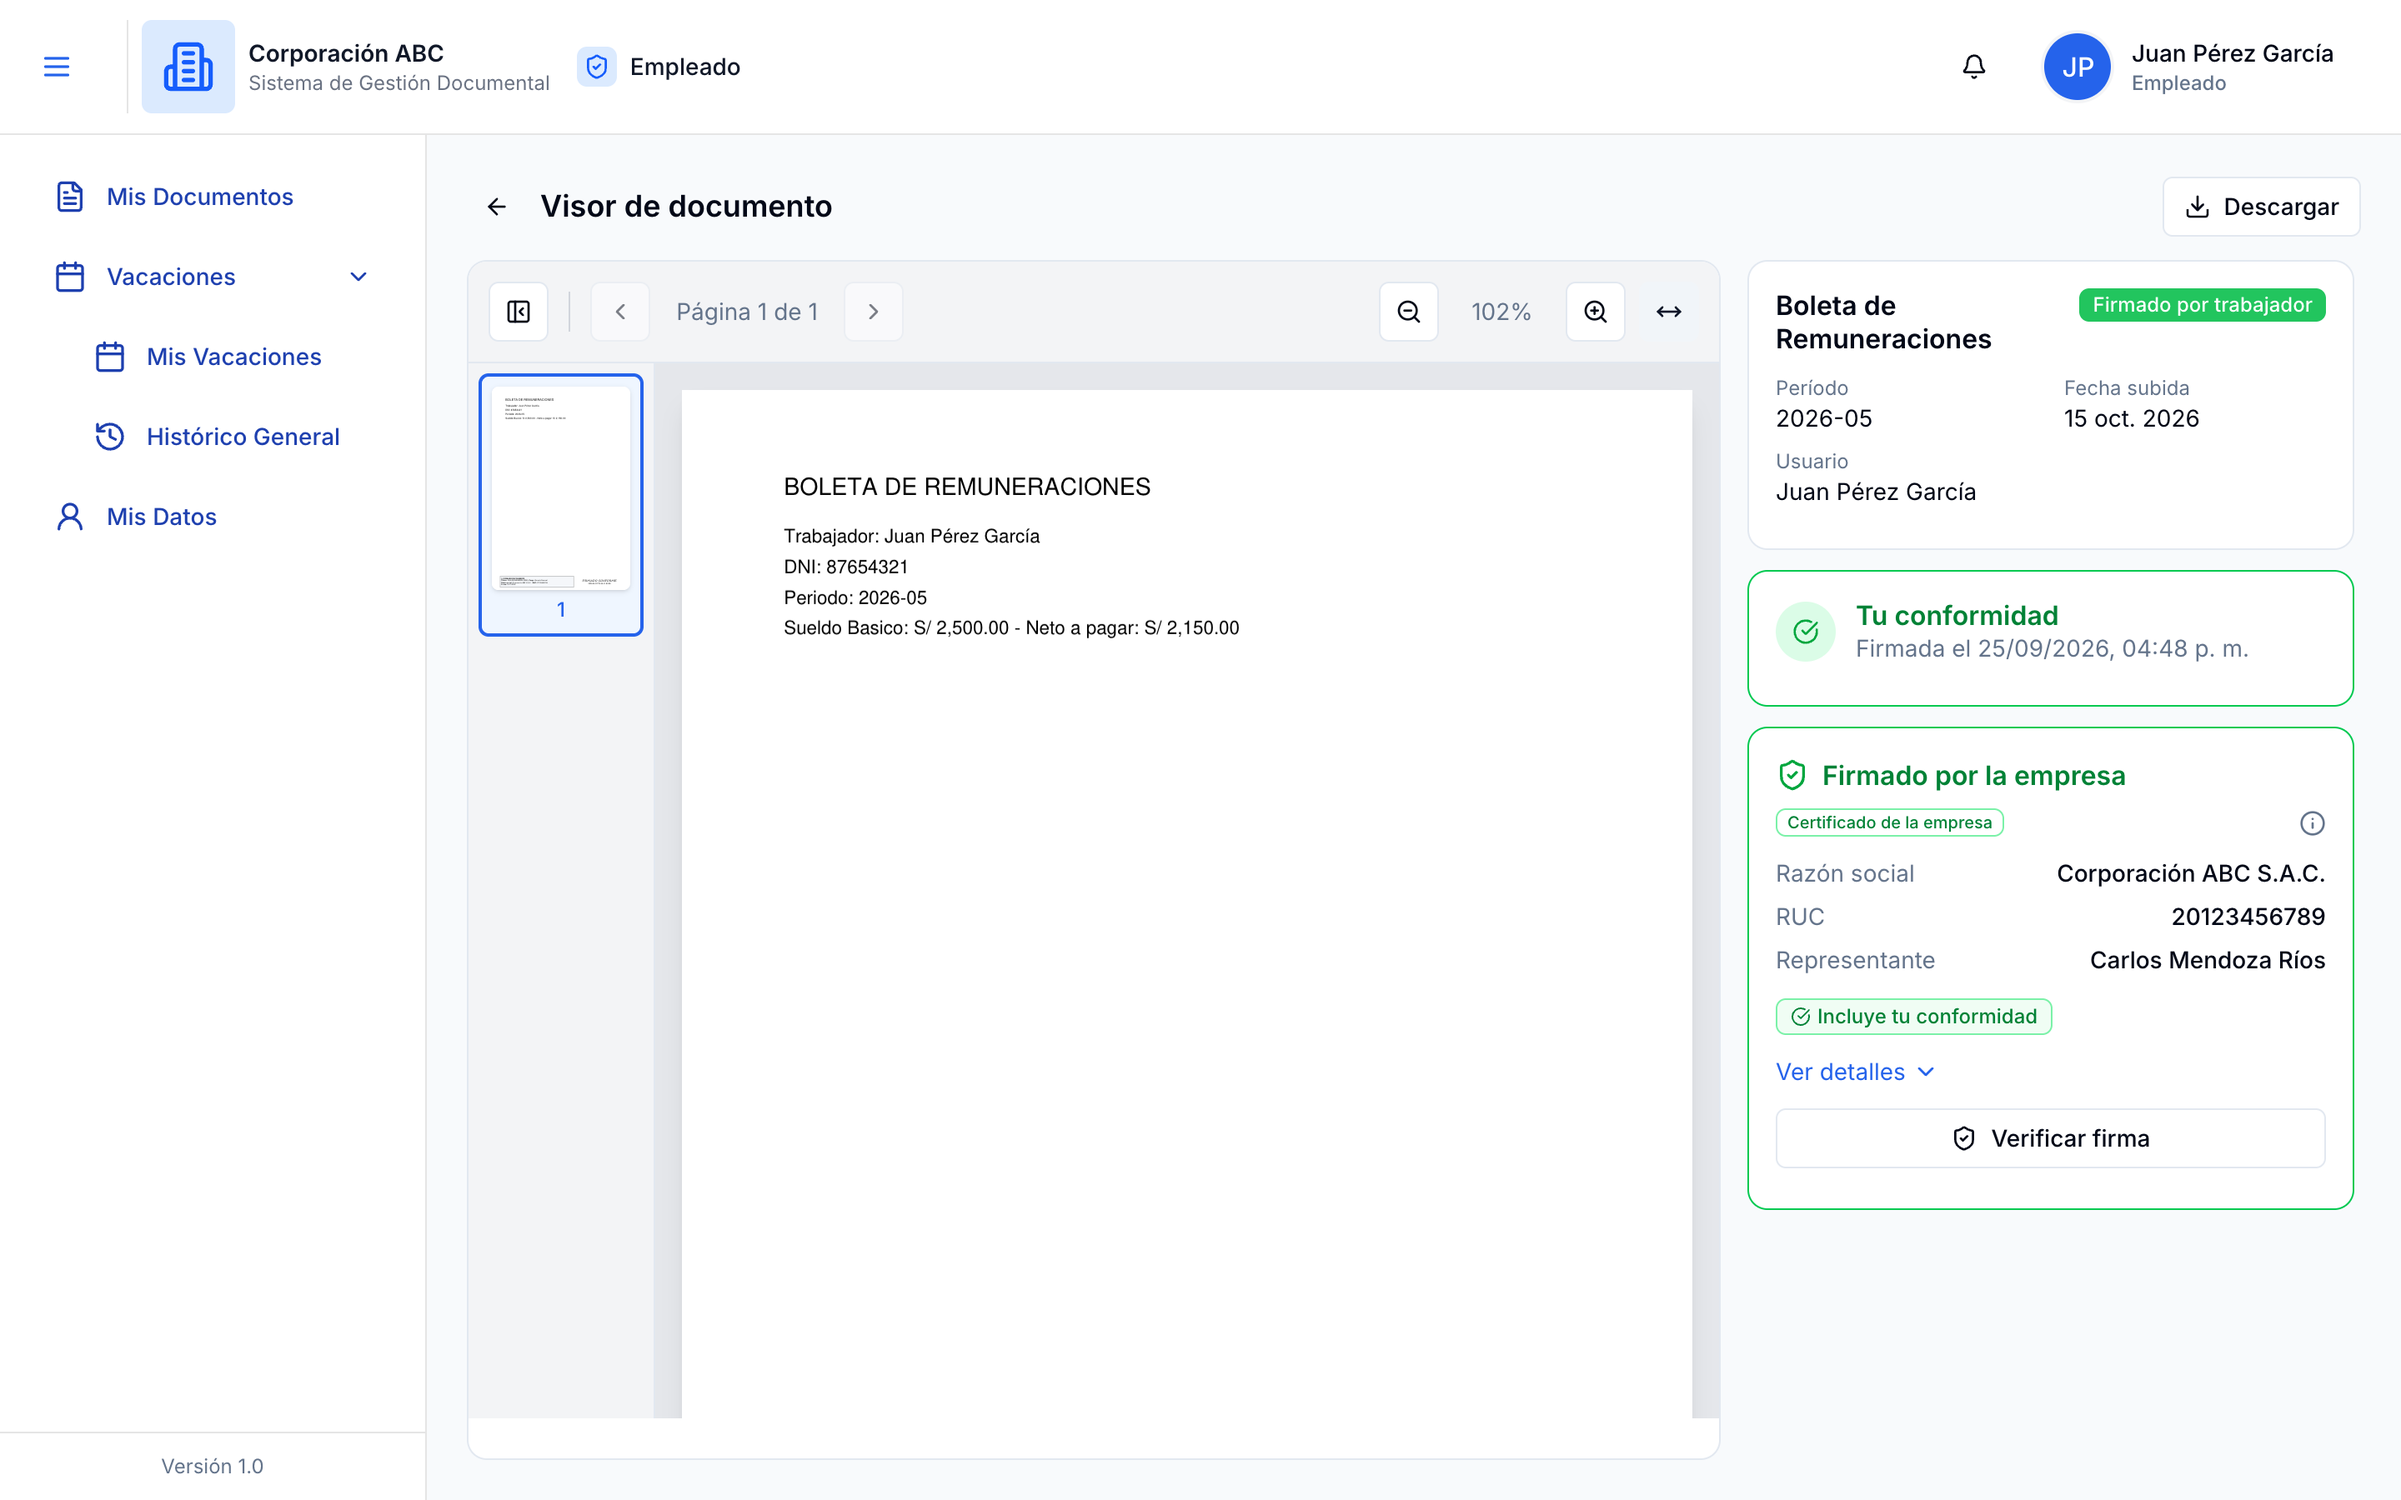
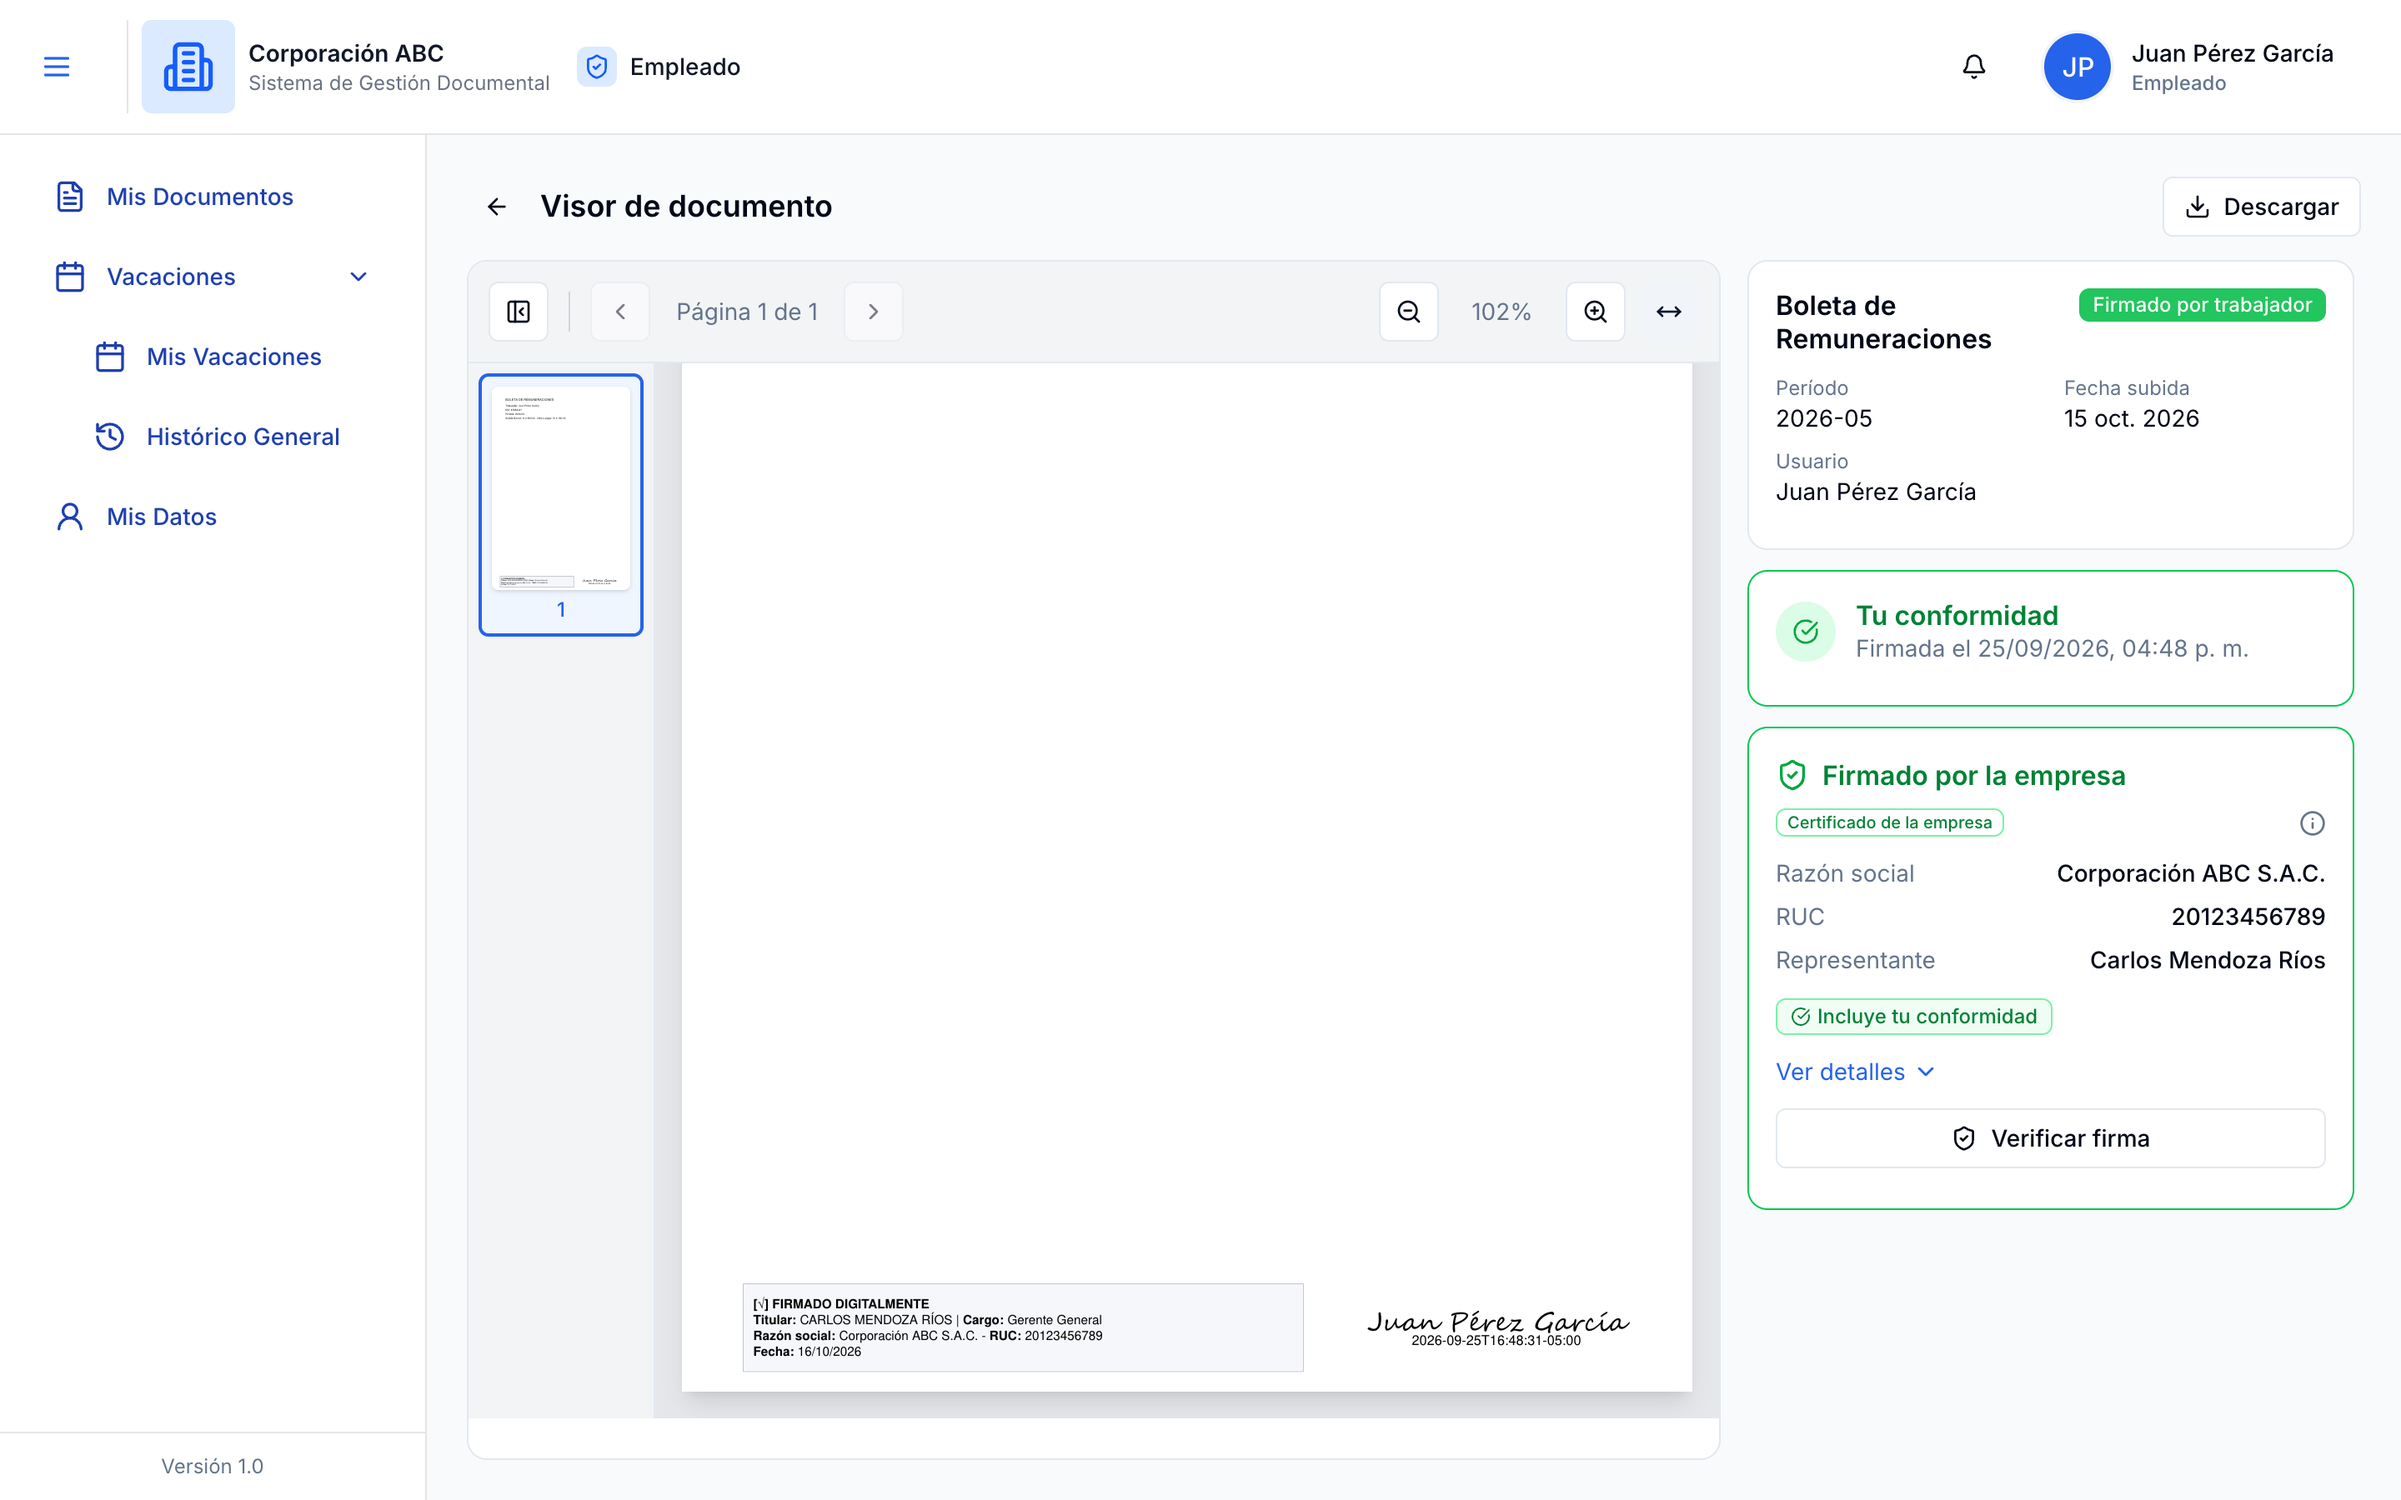
docs(manual): el visor enseña las dos firmas al pie de la boleta
Las capturas 03 (boleta firmada) y 36 (pendiente) bajan hasta el pie del
PDF: sello de la empresa y conformidad del trabajador en la firmada, solo
el sello en la pendiente.

Changed region(s): [[0.2812, 0.84, 0.7188, 0.9644], [0.2812, 0.2178, 0.7188, 0.28], [0.3125, 0.3111, 0.5, 0.4356]]

diff --git a/docs/screenshots/capture.js b/docs/screenshots/capture.js
@@ -89,7 +89,13 @@ const CAPTURAS = [
     // Texto EXACTO, no pulsarTexto: el banner "Ver Documentos Pendientes"
     // contiene "Ver" como substring y esta antes en el DOM, asi que el match
     // por substring pulsaba el banner y nunca abria el visor.
-    accion: (page) => pulsarTextoExacto(page, 'Ver'),
+    // Se baja al pie del PDF: ahí están las dos firmas (sello de la empresa
+    // a la izquierda, conformidad del trabajador a la derecha).
+    viewport: true,
+    accion: async (page) => {
+      await pulsarTextoExacto(page, 'Ver');
+      await bajarPdfAlPie(page);
+    },
   },
   /*
    * Visor rediseñado, con una boleta PENDIENTE: panel derecho con la tarjeta
@@ -107,6 +113,8 @@ const CAPTURAS = [
         () => document.body.innerText.includes('Tu conformidad'),
         { timeout: 15000 },
       );
+      // Pie del PDF: solo el sello de la empresa, la conformidad aún falta.
+      await bajarPdfAlPie(page);
     },
   },
   /*
@@ -355,6 +363,24 @@ async function pulsarTextoExacto(page, texto, selector = 'button, a, [role="butt
  * <button role="checkbox">, no como <input>, asi que no valen ni page.check ni
  * un selector de input.
  */
+/**
+ * Desplaza el visor hasta el final del PDF, donde se dibujan el sello de la
+ * firma digital de la empresa y la conformidad del trabajador. El visor solo
+ * enseña la parte de arriba de la página, así que sin esto las firmas
+ * quedaban fuera de la captura.
+ */
+async function bajarPdfAlPie(page) {
+  await page.waitForSelector('canvas', { timeout: 20000 });
+  await new Promise((r) => setTimeout(r, 1500));
+  // El área de la página (no la columna de miniaturas, que va antes en el
+  // DOM y también tiene canvas): div.overflow-y-auto.bg-gray-200 de PDFViewer.
+  await page.evaluate(() => {
+    const el = document.querySelector('div.overflow-y-auto.bg-gray-200');
+    if (el) el.scrollTop = el.scrollHeight;
+  });
+  await new Promise((r) => setTimeout(r, 1500));
+}
+
 async function marcarCasilla(page) {
   const marcada = await page.evaluate(() => {
     const casilla = document.querySelector('[role="dialog"] [role="checkbox"]');

diff --git a/docs/USER-MANUAL.md b/docs/USER-MANUAL.md
@@ -1179,6 +1179,10 @@ El dashboard del empleado presenta un resumen de sus documentos pendientes y fir
 
 ![Document Viewer](images/03_document_viewer.png)
 
+*Boleta con las dos firmas: al pie, a la izquierda, el sello de la firma
+digital de la empresa; a la derecha, la conformidad del trabajador con su
+nombre y la fecha.*
+
 **Descripción:**
 El visor permite revisar el documento completo antes de firmarlo. La pantalla
 tiene dos zonas: a la izquierda, el PDF a toda la altura disponible; a la
@@ -1202,7 +1206,9 @@ derecha, un panel con el estado del documento y de sus firmas.
 ![Visor con firma pendiente](images/36_employee_viewer_pending.png)
 
 Mientras la conformidad está pendiente, el panel muestra la tarjeta azul y el
-botón **Firmar documento**, que abre el proceso de la sección 15.
+botón **Firmar documento**, que abre el proceso de la sección 15. La empresa
+ya firmó (su sello aparece al pie de la boleta), pero falta la conformidad del
+trabajador: el lado derecho del pie todavía está vacío.
 
 ---
 
